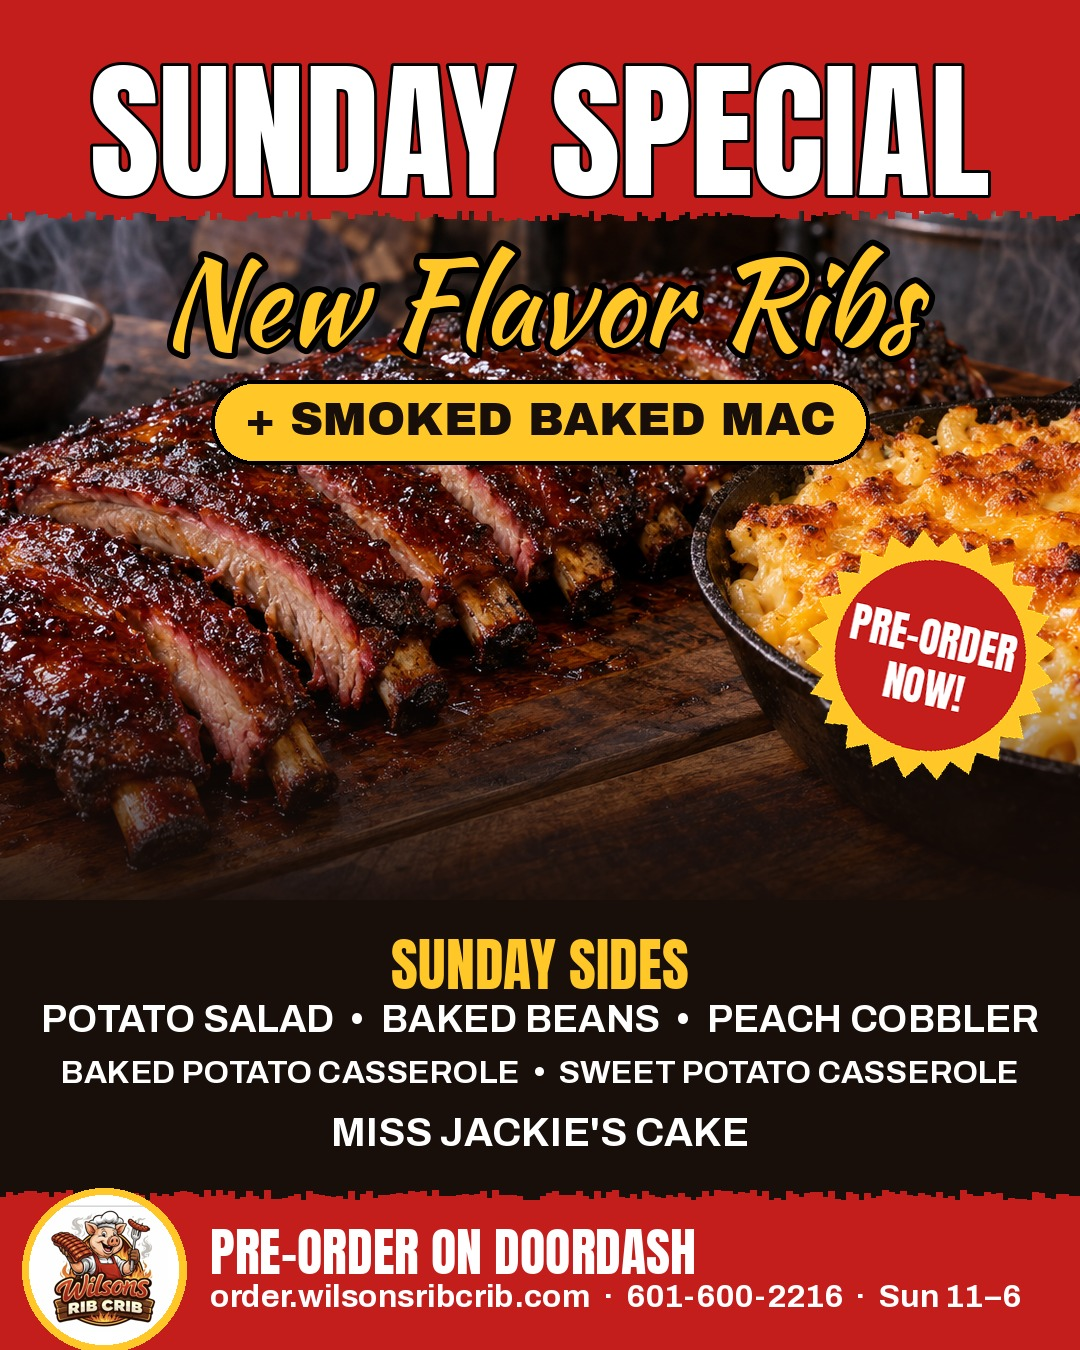
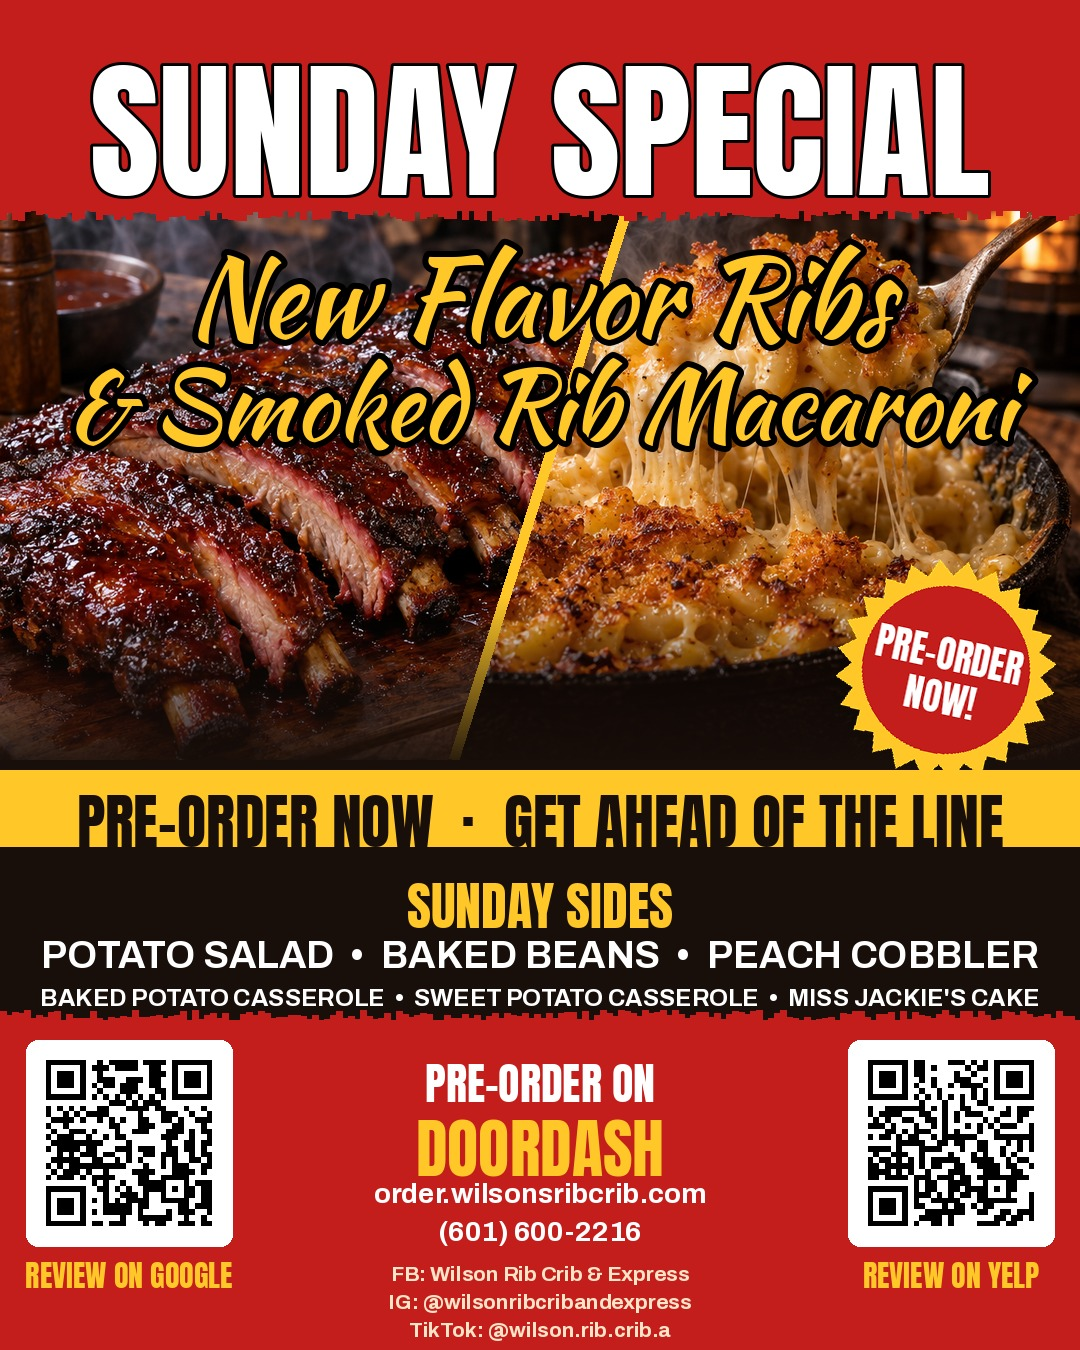
Sunday Special: rename to Smoked Rib Macaroni and swap in the new flyer image
Claude-Session: https://claude.ai/code/session_015bXMK4EToeoq4sP6kAj7eA

diff --git a/sunday.html b/sunday.html
@@ -3,13 +3,13 @@
 <head>
 <meta charset="utf-8">
 <meta name="viewport" content="width=device-width,initial-scale=1,viewport-fit=cover">
-<title>Sunday Special: New Flavor Ribs + Smoked Baked Mac | Wilsons Rib Crib &amp; Express</title>
-<meta name="description" content="Sunday Special at Wilsons Rib Crib & Express in McComb, MS: new flavor ribs with smoked baked macaroni, plus potato salad, baked beans, peach cobbler, baked potato casserole, sweet potato casserole and Miss Jackie's cake. Pre-order on DoorDash or for pickup. Sundays 11 AM-6 PM.">
+<title>Sunday Special: New Flavor Ribs &amp; Smoked Rib Macaroni | Wilsons Rib Crib &amp; Express</title>
+<meta name="description" content="Sunday Special at Wilsons Rib Crib & Express in McComb, MS: new flavor ribs with our smoked rib macaroni, plus potato salad, baked beans, peach cobbler, baked potato casserole, sweet potato casserole and Miss Jackie's cake. Pre-order on DoorDash or for pickup. Sundays 11 AM-6 PM.">
 <link rel="canonical" href="https://wilsonsribcrib.com/sunday.html">
 <meta property="og:type" content="restaurant">
 <meta property="og:site_name" content="Wilsons Rib Crib &amp; Express">
-<meta property="og:title" content="Sunday Special: New Flavor Ribs + Smoked Baked Mac | Wilsons Rib Crib &amp; Express">
-<meta property="og:description" content="Sunday Special at Wilsons Rib Crib & Express in McComb, MS: new flavor ribs with smoked baked macaroni, plus potato salad, baked beans, peach cobbler, baked potato casserole, sweet potato casserole and Miss Jackie's cake. Pre-order on DoorDash or for pickup. Sundays 11 AM-6 PM.">
+<meta property="og:title" content="Sunday Special: New Flavor Ribs &amp; Smoked Rib Macaroni | Wilsons Rib Crib &amp; Express">
+<meta property="og:description" content="Sunday Special at Wilsons Rib Crib & Express in McComb, MS: new flavor ribs with our smoked rib macaroni, plus potato salad, baked beans, peach cobbler, baked potato casserole, sweet potato casserole and Miss Jackie's cake. Pre-order on DoorDash or for pickup. Sundays 11 AM-6 PM.">
 <meta property="og:url" content="https://wilsonsribcrib.com/sunday.html">
 <meta property="og:image" content="https://wilsonsribcrib.com/img/sunday-special.jpg">
 <meta property="og:locale" content="en_US">
@@ -34,7 +34,7 @@
   <a href="location.html" class="util-loc"><svg viewBox="0 0 24 24" aria-hidden="true"><path d="M12 2a7 7 0 0 0-7 7c0 5.2 7 13 7 13s7-7.8 7-13a7 7 0 0 0-7-7zm0 9.5A2.5 2.5 0 1 1 12 6.5a2.5 2.5 0 0 1 0 5z"/></svg>McComb, MS</a>
   <span class="util-sep">|</span>
   <a href="tel:+16016002216" class="util-phone"><svg viewBox="0 0 24 24" aria-hidden="true"><path d="M6.6 10.8a15.1 15.1 0 0 0 6.6 6.6l2.2-2.2a1 1 0 0 1 1-.25 11.4 11.4 0 0 0 3.6.57 1 1 0 0 1 1 1V20a1 1 0 0 1-1 1A17 17 0 0 1 3 4a1 1 0 0 1 1-1h3.5a1 1 0 0 1 1 1c0 1.25.2 2.45.57 3.57a1 1 0 0 1-.25 1z"/></svg>(601) 600-2216</a>
-  <span class="util-promo"><span class="pill">SUNDAY SPECIAL</span> New flavor ribs + smoked baked mac. <a href="sunday.html">Pre-order now &rarr;</a></span>
+  <span class="util-promo"><span class="pill">SUNDAY SPECIAL</span> New flavor ribs + smoked rib macaroni. <a href="sunday.html">Pre-order now &rarr;</a></span>
 </div></div>
 <header class="site-head"><div class="wrap">
   <a href="index.html" class="brand" aria-label="Wilsons Rib Crib &amp; Express home"><img decoding="async" src="img/logo-sm.webp" alt="" width="64" height="64"><span><b>Wilsons</b> Rib Crib &amp; Express</span></a>
@@ -45,9 +45,9 @@
 </div></header>
 <main id="main">
 <section class="promo wood sunday" id="sunday"><div class="wrap"><div class="promo-frame">
-  <img decoding="async" src="img/sunday-special.webp" alt="Sunday Special flyer: new flavor ribs with smoked baked macaroni and Sunday sides. Pre-order on DoorDash." class="promo-img" loading="lazy">
-  <div><p class="note">This Sunday · 11 AM–6 PM · Pre-order now</p><h1>Sunday Special: New Flavor Ribs + Smoked Baked Mac</h1>
-  <p>Our new flavor ribs, slow-smoked, with smoked baked macaroni. Sunday sides: </p><ul class="ticks cols"><li>Potato salad</li><li>Baked beans</li><li>Peach cobbler</li><li>Baked potato casserole</li><li>Sweet potato casserole</li><li>Miss Jackie&#39;s cake</li></ul>
+  <img decoding="async" src="img/sunday-special.webp" alt="Sunday Special flyer: new flavor ribs with our smoked rib macaroni and Sunday sides. Pre-order on DoorDash." class="promo-img" loading="lazy">
+  <div><p class="note">This Sunday · 11 AM–6 PM · Pre-order now</p><h1>Sunday Special: New Flavor Ribs &amp; Smoked Rib Macaroni</h1>
+  <p>Our new flavor ribs, slow-smoked, with our smoked rib macaroni. Sunday sides: </p><ul class="ticks cols"><li>Potato salad</li><li>Baked beans</li><li>Peach cobbler</li><li>Baked potato casserole</li><li>Sweet potato casserole</li><li>Miss Jackie&#39;s cake</li></ul>
   <p><b>Pre-order, pre-order, pre-order!</b> Sundays go fast. Place your order on DoorDash now and tap <b>Schedule</b> to pick your Sunday time, or order pickup online and it&#39;ll be hot when you pull up after church.</p>
   <div class="ctas"><a class="btn red" href="https://www.doordash.com/store/wilsons-rib-crib-&amp;-express-mccomb-52298417/" target="_blank" rel="noopener">Pre-Order on DoorDash</a><a class="btn light" href="https://order.wilsonsribcrib.com/">Pre-Order Pickup</a><a class="btn outline" style="color:#fff;border-color:#fff" href="tel:+16016002216">Call (601) 600-2216</a></div></div>
 </div></div></section>

diff --git a/index.html b/index.html
@@ -34,7 +34,7 @@
   <a href="location.html" class="util-loc"><svg viewBox="0 0 24 24" aria-hidden="true"><path d="M12 2a7 7 0 0 0-7 7c0 5.2 7 13 7 13s7-7.8 7-13a7 7 0 0 0-7-7zm0 9.5A2.5 2.5 0 1 1 12 6.5a2.5 2.5 0 0 1 0 5z"/></svg>McComb, MS</a>
   <span class="util-sep">|</span>
   <a href="tel:+16016002216" class="util-phone"><svg viewBox="0 0 24 24" aria-hidden="true"><path d="M6.6 10.8a15.1 15.1 0 0 0 6.6 6.6l2.2-2.2a1 1 0 0 1 1-.25 11.4 11.4 0 0 0 3.6.57 1 1 0 0 1 1 1V20a1 1 0 0 1-1 1A17 17 0 0 1 3 4a1 1 0 0 1 1-1h3.5a1 1 0 0 1 1 1c0 1.25.2 2.45.57 3.57a1 1 0 0 1-.25 1z"/></svg>(601) 600-2216</a>
-  <span class="util-promo"><span class="pill">SUNDAY SPECIAL</span> New flavor ribs + smoked baked mac. <a href="sunday.html">Pre-order now &rarr;</a></span>
+  <span class="util-promo"><span class="pill">SUNDAY SPECIAL</span> New flavor ribs + smoked rib macaroni. <a href="sunday.html">Pre-order now &rarr;</a></span>
 </div></div>
 <header class="site-head"><div class="wrap">
   <a href="index.html" class="brand" aria-label="Wilsons Rib Crib &amp; Express home"><img decoding="async" src="img/logo-sm.webp" alt="" width="64" height="64"><span><b>Wilsons</b> Rib Crib &amp; Express</span></a>
@@ -53,9 +53,9 @@
   </div>
 </div></div></section>
 <section class="promo wood sunday" id="sunday"><div class="wrap"><div class="promo-frame">
-  <img decoding="async" src="img/sunday-special.webp" alt="Sunday Special flyer: new flavor ribs with smoked baked macaroni and Sunday sides. Pre-order on DoorDash." class="promo-img" loading="lazy">
-  <div><p class="note">This Sunday · 11 AM–6 PM · Pre-order now</p><h2>Sunday Special: New Flavor Ribs + Smoked Baked Mac</h2>
-  <p>Our new flavor ribs, slow-smoked, with smoked baked macaroni. Sunday sides: </p><ul class="ticks cols"><li>Potato salad</li><li>Baked beans</li><li>Peach cobbler</li><li>Baked potato casserole</li><li>Sweet potato casserole</li><li>Miss Jackie&#39;s cake</li></ul>
+  <img decoding="async" src="img/sunday-special.webp" alt="Sunday Special flyer: new flavor ribs with our smoked rib macaroni and Sunday sides. Pre-order on DoorDash." class="promo-img" loading="lazy">
+  <div><p class="note">This Sunday · 11 AM–6 PM · Pre-order now</p><h2>Sunday Special: New Flavor Ribs &amp; Smoked Rib Macaroni</h2>
+  <p>Our new flavor ribs, slow-smoked, with our smoked rib macaroni. Sunday sides: </p><ul class="ticks cols"><li>Potato salad</li><li>Baked beans</li><li>Peach cobbler</li><li>Baked potato casserole</li><li>Sweet potato casserole</li><li>Miss Jackie&#39;s cake</li></ul>
   <p><b>Pre-order, pre-order, pre-order!</b> Sundays go fast. Place your order on DoorDash now and tap <b>Schedule</b> to pick your Sunday time, or order pickup online and it&#39;ll be hot when you pull up after church.</p>
   <div class="ctas"><a class="btn red" href="https://www.doordash.com/store/wilsons-rib-crib-&amp;-express-mccomb-52298417/" target="_blank" rel="noopener">Pre-Order on DoorDash</a><a class="btn light" href="https://order.wilsonsribcrib.com/">Pre-Order Pickup</a><a class="btn outline" style="color:#fff;border-color:#fff" href="tel:+16016002216">Call (601) 600-2216</a></div></div>
 </div></div></section>

diff --git a/404.html b/404.html
@@ -34,7 +34,7 @@
   <a href="location.html" class="util-loc"><svg viewBox="0 0 24 24" aria-hidden="true"><path d="M12 2a7 7 0 0 0-7 7c0 5.2 7 13 7 13s7-7.8 7-13a7 7 0 0 0-7-7zm0 9.5A2.5 2.5 0 1 1 12 6.5a2.5 2.5 0 0 1 0 5z"/></svg>McComb, MS</a>
   <span class="util-sep">|</span>
   <a href="tel:+16016002216" class="util-phone"><svg viewBox="0 0 24 24" aria-hidden="true"><path d="M6.6 10.8a15.1 15.1 0 0 0 6.6 6.6l2.2-2.2a1 1 0 0 1 1-.25 11.4 11.4 0 0 0 3.6.57 1 1 0 0 1 1 1V20a1 1 0 0 1-1 1A17 17 0 0 1 3 4a1 1 0 0 1 1-1h3.5a1 1 0 0 1 1 1c0 1.25.2 2.45.57 3.57a1 1 0 0 1-.25 1z"/></svg>(601) 600-2216</a>
-  <span class="util-promo"><span class="pill">SUNDAY SPECIAL</span> New flavor ribs + smoked baked mac. <a href="sunday.html">Pre-order now &rarr;</a></span>
+  <span class="util-promo"><span class="pill">SUNDAY SPECIAL</span> New flavor ribs + smoked rib macaroni. <a href="sunday.html">Pre-order now &rarr;</a></span>
 </div></div>
 <header class="site-head"><div class="wrap">
   <a href="index.html" class="brand" aria-label="Wilsons Rib Crib &amp; Express home"><img decoding="async" src="img/logo-sm.webp" alt="" width="64" height="64"><span><b>Wilsons</b> Rib Crib &amp; Express</span></a>

diff --git a/careers.html b/careers.html
@@ -34,7 +34,7 @@
   <a href="location.html" class="util-loc"><svg viewBox="0 0 24 24" aria-hidden="true"><path d="M12 2a7 7 0 0 0-7 7c0 5.2 7 13 7 13s7-7.8 7-13a7 7 0 0 0-7-7zm0 9.5A2.5 2.5 0 1 1 12 6.5a2.5 2.5 0 0 1 0 5z"/></svg>McComb, MS</a>
   <span class="util-sep">|</span>
   <a href="tel:+16016002216" class="util-phone"><svg viewBox="0 0 24 24" aria-hidden="true"><path d="M6.6 10.8a15.1 15.1 0 0 0 6.6 6.6l2.2-2.2a1 1 0 0 1 1-.25 11.4 11.4 0 0 0 3.6.57 1 1 0 0 1 1 1V20a1 1 0 0 1-1 1A17 17 0 0 1 3 4a1 1 0 0 1 1-1h3.5a1 1 0 0 1 1 1c0 1.25.2 2.45.57 3.57a1 1 0 0 1-.25 1z"/></svg>(601) 600-2216</a>
-  <span class="util-promo"><span class="pill">SUNDAY SPECIAL</span> New flavor ribs + smoked baked mac. <a href="sunday.html">Pre-order now &rarr;</a></span>
+  <span class="util-promo"><span class="pill">SUNDAY SPECIAL</span> New flavor ribs + smoked rib macaroni. <a href="sunday.html">Pre-order now &rarr;</a></span>
 </div></div>
 <header class="site-head"><div class="wrap">
   <a href="index.html" class="brand" aria-label="Wilsons Rib Crib &amp; Express home"><img decoding="async" src="img/logo-sm.webp" alt="" width="64" height="64"><span><b>Wilsons</b> Rib Crib &amp; Express</span></a>

diff --git a/catering.html b/catering.html
@@ -34,7 +34,7 @@
   <a href="location.html" class="util-loc"><svg viewBox="0 0 24 24" aria-hidden="true"><path d="M12 2a7 7 0 0 0-7 7c0 5.2 7 13 7 13s7-7.8 7-13a7 7 0 0 0-7-7zm0 9.5A2.5 2.5 0 1 1 12 6.5a2.5 2.5 0 0 1 0 5z"/></svg>McComb, MS</a>
   <span class="util-sep">|</span>
   <a href="tel:+16016002216" class="util-phone"><svg viewBox="0 0 24 24" aria-hidden="true"><path d="M6.6 10.8a15.1 15.1 0 0 0 6.6 6.6l2.2-2.2a1 1 0 0 1 1-.25 11.4 11.4 0 0 0 3.6.57 1 1 0 0 1 1 1V20a1 1 0 0 1-1 1A17 17 0 0 1 3 4a1 1 0 0 1 1-1h3.5a1 1 0 0 1 1 1c0 1.25.2 2.45.57 3.57a1 1 0 0 1-.25 1z"/></svg>(601) 600-2216</a>
-  <span class="util-promo"><span class="pill">SUNDAY SPECIAL</span> New flavor ribs + smoked baked mac. <a href="sunday.html">Pre-order now &rarr;</a></span>
+  <span class="util-promo"><span class="pill">SUNDAY SPECIAL</span> New flavor ribs + smoked rib macaroni. <a href="sunday.html">Pre-order now &rarr;</a></span>
 </div></div>
 <header class="site-head"><div class="wrap">
   <a href="index.html" class="brand" aria-label="Wilsons Rib Crib &amp; Express home"><img decoding="async" src="img/logo-sm.webp" alt="" width="64" height="64"><span><b>Wilsons</b> Rib Crib &amp; Express</span></a>

diff --git a/contact.html b/contact.html
@@ -34,7 +34,7 @@
   <a href="location.html" class="util-loc"><svg viewBox="0 0 24 24" aria-hidden="true"><path d="M12 2a7 7 0 0 0-7 7c0 5.2 7 13 7 13s7-7.8 7-13a7 7 0 0 0-7-7zm0 9.5A2.5 2.5 0 1 1 12 6.5a2.5 2.5 0 0 1 0 5z"/></svg>McComb, MS</a>
   <span class="util-sep">|</span>
   <a href="tel:+16016002216" class="util-phone"><svg viewBox="0 0 24 24" aria-hidden="true"><path d="M6.6 10.8a15.1 15.1 0 0 0 6.6 6.6l2.2-2.2a1 1 0 0 1 1-.25 11.4 11.4 0 0 0 3.6.57 1 1 0 0 1 1 1V20a1 1 0 0 1-1 1A17 17 0 0 1 3 4a1 1 0 0 1 1-1h3.5a1 1 0 0 1 1 1c0 1.25.2 2.45.57 3.57a1 1 0 0 1-.25 1z"/></svg>(601) 600-2216</a>
-  <span class="util-promo"><span class="pill">SUNDAY SPECIAL</span> New flavor ribs + smoked baked mac. <a href="sunday.html">Pre-order now &rarr;</a></span>
+  <span class="util-promo"><span class="pill">SUNDAY SPECIAL</span> New flavor ribs + smoked rib macaroni. <a href="sunday.html">Pre-order now &rarr;</a></span>
 </div></div>
 <header class="site-head"><div class="wrap">
   <a href="index.html" class="brand" aria-label="Wilsons Rib Crib &amp; Express home"><img decoding="async" src="img/logo-sm.webp" alt="" width="64" height="64"><span><b>Wilsons</b> Rib Crib &amp; Express</span></a>

diff --git a/faqs.html b/faqs.html
@@ -34,7 +34,7 @@
   <a href="location.html" class="util-loc"><svg viewBox="0 0 24 24" aria-hidden="true"><path d="M12 2a7 7 0 0 0-7 7c0 5.2 7 13 7 13s7-7.8 7-13a7 7 0 0 0-7-7zm0 9.5A2.5 2.5 0 1 1 12 6.5a2.5 2.5 0 0 1 0 5z"/></svg>McComb, MS</a>
   <span class="util-sep">|</span>
   <a href="tel:+16016002216" class="util-phone"><svg viewBox="0 0 24 24" aria-hidden="true"><path d="M6.6 10.8a15.1 15.1 0 0 0 6.6 6.6l2.2-2.2a1 1 0 0 1 1-.25 11.4 11.4 0 0 0 3.6.57 1 1 0 0 1 1 1V20a1 1 0 0 1-1 1A17 17 0 0 1 3 4a1 1 0 0 1 1-1h3.5a1 1 0 0 1 1 1c0 1.25.2 2.45.57 3.57a1 1 0 0 1-.25 1z"/></svg>(601) 600-2216</a>
-  <span class="util-promo"><span class="pill">SUNDAY SPECIAL</span> New flavor ribs + smoked baked mac. <a href="sunday.html">Pre-order now &rarr;</a></span>
+  <span class="util-promo"><span class="pill">SUNDAY SPECIAL</span> New flavor ribs + smoked rib macaroni. <a href="sunday.html">Pre-order now &rarr;</a></span>
 </div></div>
 <header class="site-head"><div class="wrap">
   <a href="index.html" class="brand" aria-label="Wilsons Rib Crib &amp; Express home"><img decoding="async" src="img/logo-sm.webp" alt="" width="64" height="64"><span><b>Wilsons</b> Rib Crib &amp; Express</span></a>

diff --git a/location.html b/location.html
@@ -34,7 +34,7 @@
   <a href="location.html" class="util-loc"><svg viewBox="0 0 24 24" aria-hidden="true"><path d="M12 2a7 7 0 0 0-7 7c0 5.2 7 13 7 13s7-7.8 7-13a7 7 0 0 0-7-7zm0 9.5A2.5 2.5 0 1 1 12 6.5a2.5 2.5 0 0 1 0 5z"/></svg>McComb, MS</a>
   <span class="util-sep">|</span>
   <a href="tel:+16016002216" class="util-phone"><svg viewBox="0 0 24 24" aria-hidden="true"><path d="M6.6 10.8a15.1 15.1 0 0 0 6.6 6.6l2.2-2.2a1 1 0 0 1 1-.25 11.4 11.4 0 0 0 3.6.57 1 1 0 0 1 1 1V20a1 1 0 0 1-1 1A17 17 0 0 1 3 4a1 1 0 0 1 1-1h3.5a1 1 0 0 1 1 1c0 1.25.2 2.45.57 3.57a1 1 0 0 1-.25 1z"/></svg>(601) 600-2216</a>
-  <span class="util-promo"><span class="pill">SUNDAY SPECIAL</span> New flavor ribs + smoked baked mac. <a href="sunday.html">Pre-order now &rarr;</a></span>
+  <span class="util-promo"><span class="pill">SUNDAY SPECIAL</span> New flavor ribs + smoked rib macaroni. <a href="sunday.html">Pre-order now &rarr;</a></span>
 </div></div>
 <header class="site-head"><div class="wrap">
   <a href="index.html" class="brand" aria-label="Wilsons Rib Crib &amp; Express home"><img decoding="async" src="img/logo-sm.webp" alt="" width="64" height="64"><span><b>Wilsons</b> Rib Crib &amp; Express</span></a>

diff --git a/menu.html b/menu.html
@@ -34,7 +34,7 @@
   <a href="location.html" class="util-loc"><svg viewBox="0 0 24 24" aria-hidden="true"><path d="M12 2a7 7 0 0 0-7 7c0 5.2 7 13 7 13s7-7.8 7-13a7 7 0 0 0-7-7zm0 9.5A2.5 2.5 0 1 1 12 6.5a2.5 2.5 0 0 1 0 5z"/></svg>McComb, MS</a>
   <span class="util-sep">|</span>
   <a href="tel:+16016002216" class="util-phone"><svg viewBox="0 0 24 24" aria-hidden="true"><path d="M6.6 10.8a15.1 15.1 0 0 0 6.6 6.6l2.2-2.2a1 1 0 0 1 1-.25 11.4 11.4 0 0 0 3.6.57 1 1 0 0 1 1 1V20a1 1 0 0 1-1 1A17 17 0 0 1 3 4a1 1 0 0 1 1-1h3.5a1 1 0 0 1 1 1c0 1.25.2 2.45.57 3.57a1 1 0 0 1-.25 1z"/></svg>(601) 600-2216</a>
-  <span class="util-promo"><span class="pill">SUNDAY SPECIAL</span> New flavor ribs + smoked baked mac. <a href="sunday.html">Pre-order now &rarr;</a></span>
+  <span class="util-promo"><span class="pill">SUNDAY SPECIAL</span> New flavor ribs + smoked rib macaroni. <a href="sunday.html">Pre-order now &rarr;</a></span>
 </div></div>
 <header class="site-head"><div class="wrap">
   <a href="index.html" class="brand" aria-label="Wilsons Rib Crib &amp; Express home"><img decoding="async" src="img/logo-sm.webp" alt="" width="64" height="64"><span><b>Wilsons</b> Rib Crib &amp; Express</span></a>

diff --git a/news-7up-cake.html b/news-7up-cake.html
@@ -34,7 +34,7 @@
   <a href="location.html" class="util-loc"><svg viewBox="0 0 24 24" aria-hidden="true"><path d="M12 2a7 7 0 0 0-7 7c0 5.2 7 13 7 13s7-7.8 7-13a7 7 0 0 0-7-7zm0 9.5A2.5 2.5 0 1 1 12 6.5a2.5 2.5 0 0 1 0 5z"/></svg>McComb, MS</a>
   <span class="util-sep">|</span>
   <a href="tel:+16016002216" class="util-phone"><svg viewBox="0 0 24 24" aria-hidden="true"><path d="M6.6 10.8a15.1 15.1 0 0 0 6.6 6.6l2.2-2.2a1 1 0 0 1 1-.25 11.4 11.4 0 0 0 3.6.57 1 1 0 0 1 1 1V20a1 1 0 0 1-1 1A17 17 0 0 1 3 4a1 1 0 0 1 1-1h3.5a1 1 0 0 1 1 1c0 1.25.2 2.45.57 3.57a1 1 0 0 1-.25 1z"/></svg>(601) 600-2216</a>
-  <span class="util-promo"><span class="pill">SUNDAY SPECIAL</span> New flavor ribs + smoked baked mac. <a href="sunday.html">Pre-order now &rarr;</a></span>
+  <span class="util-promo"><span class="pill">SUNDAY SPECIAL</span> New flavor ribs + smoked rib macaroni. <a href="sunday.html">Pre-order now &rarr;</a></span>
 </div></div>
 <header class="site-head"><div class="wrap">
   <a href="index.html" class="brand" aria-label="Wilsons Rib Crib &amp; Express home"><img decoding="async" src="img/logo-sm.webp" alt="" width="64" height="64"><span><b>Wilsons</b> Rib Crib &amp; Express</span></a>

diff --git a/news-banana-pudding-cake.html b/news-banana-pudding-cake.html
@@ -34,7 +34,7 @@
   <a href="location.html" class="util-loc"><svg viewBox="0 0 24 24" aria-hidden="true"><path d="M12 2a7 7 0 0 0-7 7c0 5.2 7 13 7 13s7-7.8 7-13a7 7 0 0 0-7-7zm0 9.5A2.5 2.5 0 1 1 12 6.5a2.5 2.5 0 0 1 0 5z"/></svg>McComb, MS</a>
   <span class="util-sep">|</span>
   <a href="tel:+16016002216" class="util-phone"><svg viewBox="0 0 24 24" aria-hidden="true"><path d="M6.6 10.8a15.1 15.1 0 0 0 6.6 6.6l2.2-2.2a1 1 0 0 1 1-.25 11.4 11.4 0 0 0 3.6.57 1 1 0 0 1 1 1V20a1 1 0 0 1-1 1A17 17 0 0 1 3 4a1 1 0 0 1 1-1h3.5a1 1 0 0 1 1 1c0 1.25.2 2.45.57 3.57a1 1 0 0 1-.25 1z"/></svg>(601) 600-2216</a>
-  <span class="util-promo"><span class="pill">SUNDAY SPECIAL</span> New flavor ribs + smoked baked mac. <a href="sunday.html">Pre-order now &rarr;</a></span>
+  <span class="util-promo"><span class="pill">SUNDAY SPECIAL</span> New flavor ribs + smoked rib macaroni. <a href="sunday.html">Pre-order now &rarr;</a></span>
 </div></div>
 <header class="site-head"><div class="wrap">
   <a href="index.html" class="brand" aria-label="Wilsons Rib Crib &amp; Express home"><img decoding="async" src="img/logo-sm.webp" alt="" width="64" height="64"><span><b>Wilsons</b> Rib Crib &amp; Express</span></a>

diff --git a/news-bbq-catering-pike-county.html b/news-bbq-catering-pike-county.html
@@ -34,7 +34,7 @@
   <a href="location.html" class="util-loc"><svg viewBox="0 0 24 24" aria-hidden="true"><path d="M12 2a7 7 0 0 0-7 7c0 5.2 7 13 7 13s7-7.8 7-13a7 7 0 0 0-7-7zm0 9.5A2.5 2.5 0 1 1 12 6.5a2.5 2.5 0 0 1 0 5z"/></svg>McComb, MS</a>
   <span class="util-sep">|</span>
   <a href="tel:+16016002216" class="util-phone"><svg viewBox="0 0 24 24" aria-hidden="true"><path d="M6.6 10.8a15.1 15.1 0 0 0 6.6 6.6l2.2-2.2a1 1 0 0 1 1-.25 11.4 11.4 0 0 0 3.6.57 1 1 0 0 1 1 1V20a1 1 0 0 1-1 1A17 17 0 0 1 3 4a1 1 0 0 1 1-1h3.5a1 1 0 0 1 1 1c0 1.25.2 2.45.57 3.57a1 1 0 0 1-.25 1z"/></svg>(601) 600-2216</a>
-  <span class="util-promo"><span class="pill">SUNDAY SPECIAL</span> New flavor ribs + smoked baked mac. <a href="sunday.html">Pre-order now &rarr;</a></span>
+  <span class="util-promo"><span class="pill">SUNDAY SPECIAL</span> New flavor ribs + smoked rib macaroni. <a href="sunday.html">Pre-order now &rarr;</a></span>
 </div></div>
 <header class="site-head"><div class="wrap">
   <a href="index.html" class="brand" aria-label="Wilsons Rib Crib &amp; Express home"><img decoding="async" src="img/logo-sm.webp" alt="" width="64" height="64"><span><b>Wilsons</b> Rib Crib &amp; Express</span></a>
